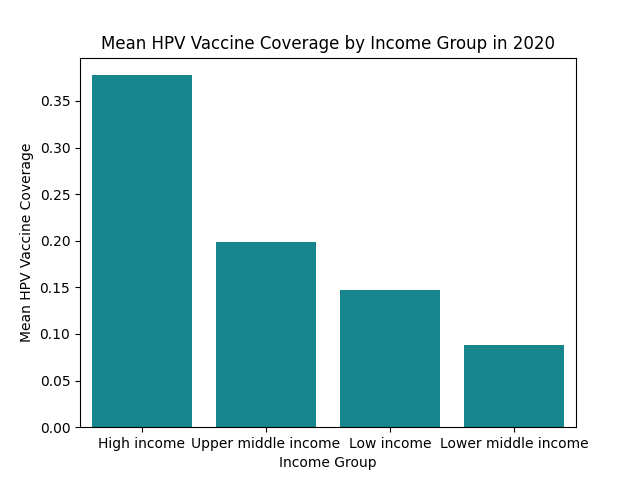
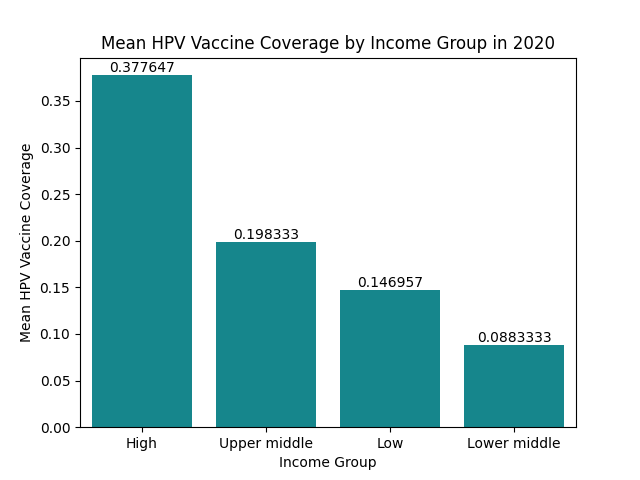
Miscellaneous visual improvements
Fixes were advised by Prof. Liu in his 3/13 OH

diff --git a/index.html b/index.html
@@ -12,19 +12,20 @@
             When cancer starts in the cervix, it is called cervical cancer. The cervix connects the vagina (birth canal) to the upper part of the uterus. 
             The uterus (or womb) is where a baby grows when during pregnancy. Anyone with a cervix is at risk for cervical cancer. 
             It occurs most often in people over age 30. Long-lasting infection with certain types of human papillomavirus (HPV) is the main cause of cervical cancer. 
-            HPV is a common virus that is passed from one person to another during sex. Unfortunately, in 2020 alone, there were approximately 604,000 new cases and 342,000 deaths worldwide.</p>
+            HPV is a common virus that is passed from one person to another during sex. <b>Unfortunately, in 2020 alone, there were approximately 604,000 new cases and 342,000 deaths worldwide.</b></p>
         <img src="cc_death_rate.png" alt="Image Description">
         <h1><i>Cervical cancer is preventable, <font color="#47c0bb">however...</font></i></h1>
         <p><a href="https://www.who.int/news-room/fact-sheets/detail/cervical-cancer" class="link" target="_blank">The World Health Organization (WHO)</a> 
-            recommends the HPV vaccine at age 9–14 years as a highly effective way to prevent HPV infection, cervical cancer and other HPV-related cancers
-             and screening beginning from the age of 30 (25 years in women living with HIV) to detect cervical disease, but across countries, 
-             inequalities in access to vaccination, screening and treatment services, risk factors including HIV prevalence, and social and economic determinants 
+            recommends the <b>HPV vaccine</b> at age 9–14 years as a highly effective way to prevent HPV infection, cervical cancer and other HPV-related cancers
+             and <b>screening</b> beginning from the age of 30 (25 years in women living with HIV) to detect cervical disease, but across countries, 
+            <b>inequalities in access to vaccination, screening and treatment services</b>, risk factors including HIV prevalence, and social and economic determinants 
              such as sex, gender biases and poverty keeps cervical cancer as a significant global health issue.</p>
         <img src="coverage_by_income.png" alt="Image Description">
         <p>Data suggests that higher income countries, such as the United States and Sweden, have relatively high coverage at approximately 37%, 
             which is almost double the coverage of the following income group, the upper middle income, which includes countries such as Argentina and South Africa, 
             at a coverage of approximately 20%. Interestingly enough, the lower middle income group saw the worst coverage at approximately 8%, even compared to 
-            low income countries, which saw a coverage of approximately 15%. Regardless, it is evidently clear that there is a significant discrepancy in coverage across income groups.</p>
+            low income countries, which saw a coverage of approximately 15%. Regardless, it is evidently clear that there is a discrepancy in coverage across income groups 
+            <b>where the lower the income of a country, the lower the HPV vaccine coverage</b>.</p>
         <h1><i>HPV Vaccine Coverage discrepancy <font color="#47c0bb">among income groups affecting</font> cases and deaths...</i></h1>
         <img src="possible_cases_over_time.png" alt="Image Description">
     </div>

diff --git a/styles.css b/styles.css
@@ -12,6 +12,7 @@ body {
 .article {
     width: 60%;
     min-height: 600px;
+    font-size: 20px;
     background-color: #029390;
     border-radius: 8px;
     padding: 20px;

diff --git a/data_preprocess.py b/data_preprocess.py
@@ -6,6 +6,7 @@ import seaborn as sns
 if 1:
     print("Loading data...")
     data = pd.read_csv('hpv_past_results.csv')
+    data['income_group'] = data['income_group'].str.replace('income', '').str.strip()
     print(data.head())
 
     data_2020 = data[data['year'] == 2020]
@@ -16,12 +17,13 @@ if 1:
     print(coverage_data_2020)
 
     # Create the bar plot using seaborn
-    sns.barplot(data=coverage_data_2020, x='income_group', y='coverage', color='#03989f')
+    ax = sns.barplot(data=coverage_data_2020, x='income_group', y='coverage', color='#03989f')
 
     # Set the labels and title of the plot
     plt.xlabel('Income Group')
     plt.ylabel('Mean HPV Vaccine Coverage')
     plt.title('Mean HPV Vaccine Coverage by Income Group in 2020')
+    ax.bar_label(ax.containers[0])
 
     # Display the plot
     plt.show()
